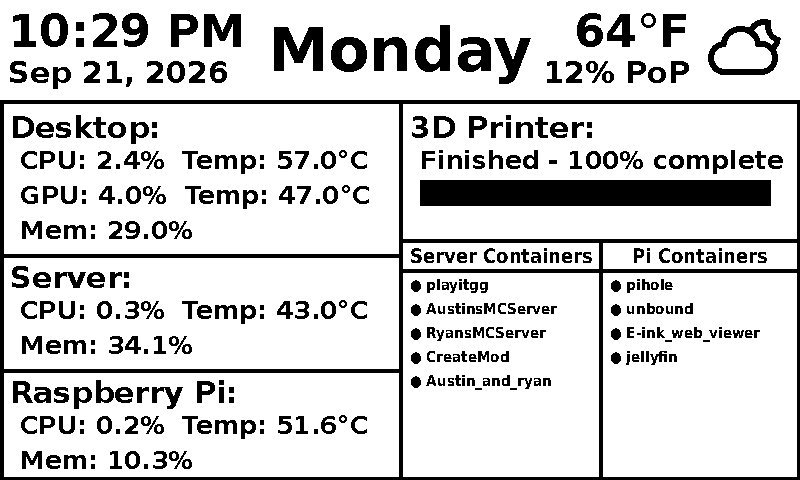
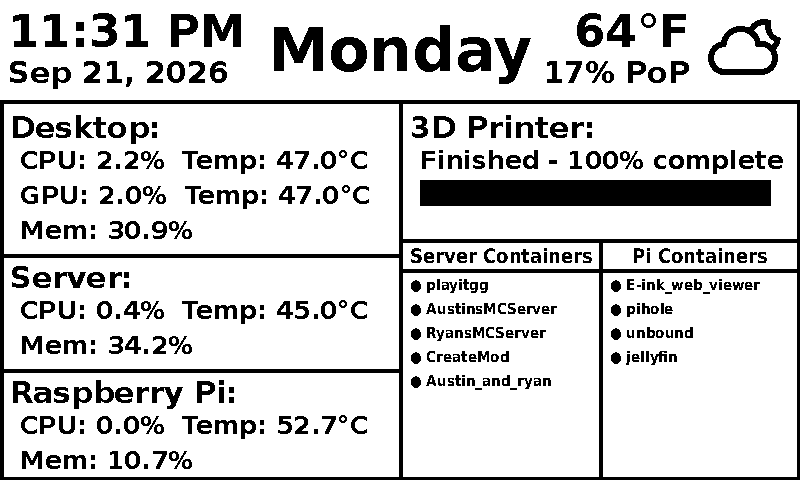
cleaning up render.py to only draw functions

diff --git a/render.py b/render.py
@@ -1,7 +1,7 @@
 from dotenv import load_dotenv
 import os
 from PIL import Image, ImageDraw, ImageFont
-from data import WEATHER_ICON_MAP_DAY, WEATHER_ICON_MAP_NIGHT, get_weather_icon_category
+from data import STATUS_LABELS, WEATHER_ICON_MAP_DAY, WEATHER_ICON_MAP_NIGHT, get_weather_icon_category, truncate_name, draw_text_right_aligned
 import datetime
 
 EPD_WIDTH = 800
@@ -36,13 +36,6 @@ server_block_ystart = 260
 docker_section_ystart = 257
 pi_block_ystart = 375
 text_space = 35
-
-STATUS_LABELS = {
-    "RUNNING": "Printing",
-    "PAUSE": "Paused",
-    "FINISH": "Finished",
-    "IDLE": "Idle",
-}
 
 def render_dashboard(stats):
     image = Image.new('1', (EPD_WIDTH, EPD_HEIGHT), 255)
@@ -179,16 +172,6 @@ def draw_docker_columns(draw, stats, y_start):
         indicator = "●" if container["up"] else "○"
         name = truncate_name(container["name"])
         draw.text((right_x, y), f"{indicator} {name}", font=font_mini, fill=0)
-
-def truncate_name(name, max_length=20):
-    if len(name) > max_length:
-        return name[:max_length] + "..."
-    return name
-
-def draw_text_right_aligned(draw, right_x, y, text, font, fill=0):
-    text_width = draw.textlength(text, font=font)
-    x = right_x - text_width
-    draw.text((x, y), text, font=font, fill=fill)
 
 def drawBorders(draw):
     draw.rectangle(

diff --git a/data.py b/data.py
@@ -29,6 +29,14 @@ _printer_status = {
     "bed_temp": None,
     "remaining_min": None,
 }
+
+STATUS_LABELS = {
+    "RUNNING": "Printing",
+    "PAUSE": "Paused",
+    "FINISH": "Finished",
+    "IDLE": "Idle",
+}
+
 _printer_lock = threading.Lock()
 _finish_transition_time = None
 
@@ -360,6 +368,16 @@ def get_pi_docker_status():
     except Exception as e:
         print(f"Pi Docker status fetch failed: {e}")
         return []
+
+def truncate_name(name, max_length=20):
+    if len(name) > max_length:
+        return name[:max_length] + "..."
+    return name
+
+def draw_text_right_aligned(draw, right_x, y, text, font, fill=0):
+    text_width = draw.textlength(text, font=font)
+    x = right_x - text_width
+    draw.text((x, y), text, font=font, fill=fill)
 
 def get_stats():
     desktop = get_desktop_stats()
